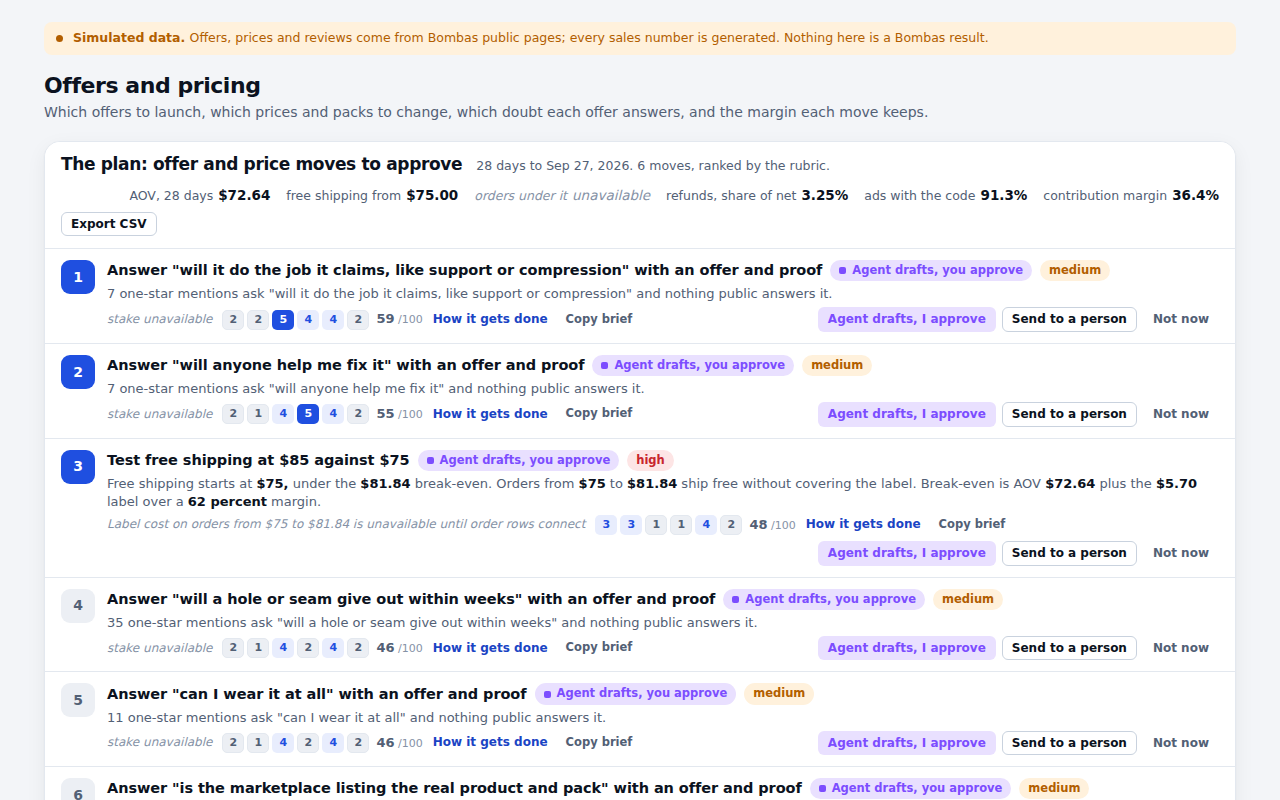
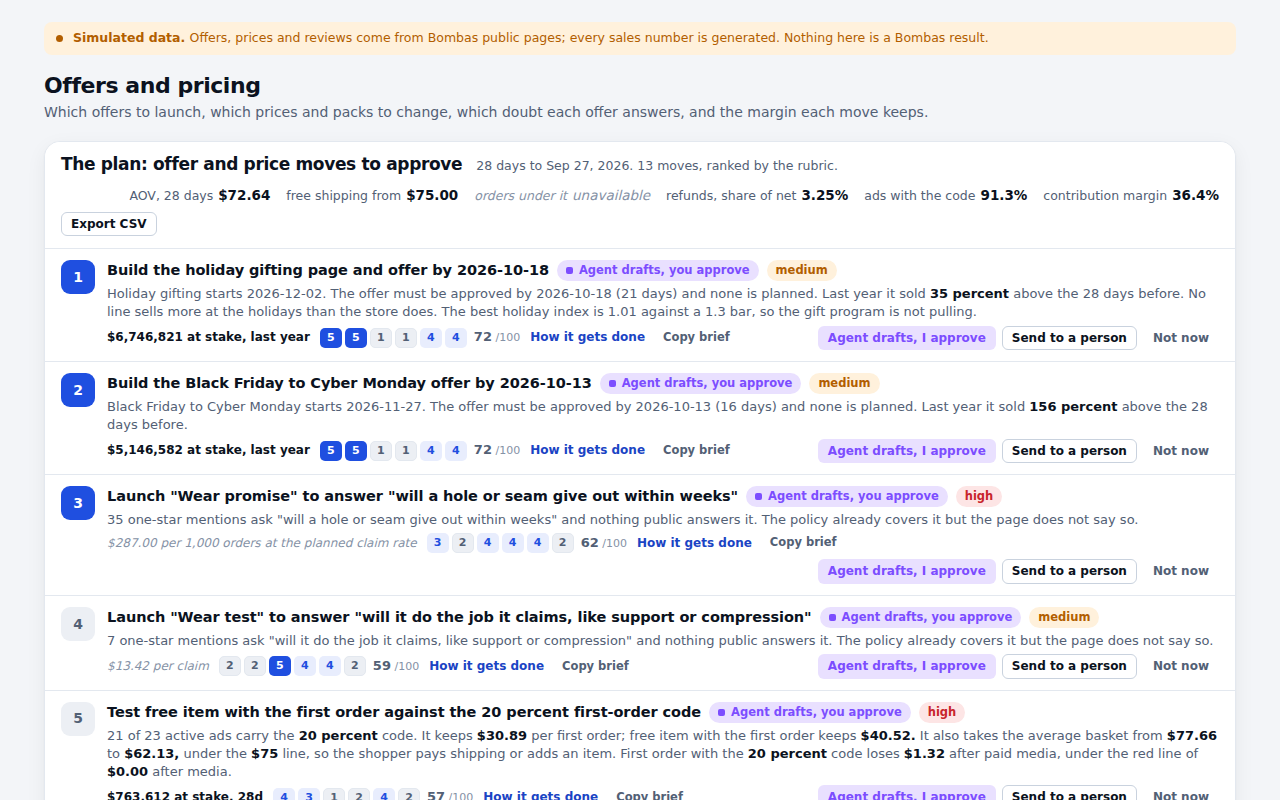
Offers and pricing 1.10: rank complete. Every rule has a builder with a real title, steps, drafted artefact, win and stop rules; merged moves carry every finding id; connect actions merge by source; tests for coverage, validation and determinism; round 1 screenshot and note
Claude-Session: https://claude.ai/code/session_01DDhw6WYtBQKeQKJrXFNfTo

Changed region(s): [[0.0312, 0.3125, 0.9688, 1.0], [0.5, 0.1875, 0.6562, 0.2188]]

diff --git a/app/screens/04-offers-pricing/actions.py b/app/screens/04-offers-pricing/actions.py
@@ -406,6 +406,101 @@ def guarantee_action(f, a, ctx):
     return a
 
 
+def stale_action(f, a, ctx):
+    ev = {e['metric']: e for e in f['evidence']}
+    be = ev.get('free_shipping_threshold_breakeven', {})
+    new = math.ceil(be['value'] / 5) * 5 if be.get('value') else None
+    a.update({
+        'title': f'Re-decide the free shipping line against a ${be.get("value", 0):,.2f} break-even',
+        'owner': 'agent_drafts',
+        'artefact': {'kind': 'report', 'label': 'Free shipping line review', 'draft': '\n'.join([
+            f'Break-even moved from ${be.get("baseline", 0):,.2f} to ${be.get("value", 0):,.2f} in a year; the line stayed at ${ctx.threshold:,.0f}.',
+            'Inputs that moved: ' + '; '.join(f'{k.replace("_", " ")} {v["baseline"]} to {v["value"]}' for k, v in ev.items() if v.get('baseline') is not None) + '.',
+            f'Options: keep the line, or test ${new} (break-even rounded up to $5).' if new else 'Options: keep the line.'])},
+        'steps': steps(('agent', 'Recompute break-even with the label and AOV in force today.'),
+                       ('agent', 'Draft the review with the options and what each must achieve.'),
+                       ('person', 'Decide: keep the line or approve a test.')),
+        'win_rule': 'A decision logged with the break-even it was made on.', 'stop_rule': None,
+        'check_on': ctx.check_on(90), 'time_to_ship_hours': 2})
+    return a
+
+
+def pull_action(f, a, ctx):
+    t = ctx.threshold
+    a.update({
+        'title': f'Show shoppers how far they are from free shipping at ${t:,.0f}',
+        'owner': 'agent_drafts',
+        'artefact': {'kind': 'page_section', 'label': 'Free shipping progress bar for the cart and the header', 'draft': '\n'.join([
+            f'Page section: a progress bar in the cart and the header: "You are $X from free shipping" up to ${t:,.0f}.',
+            'Under it, one add-on that closes the gap: the single item priced nearest the gap.',
+            'Win: more orders in the $10 over the line than under it within 28 days.',
+            'Stop: conversion down more than 3 percent relative for 7 days.'])},
+        'steps': steps(('agent', 'Pick the add-on items that close the most common gaps.'),
+                       ('agent', 'Draft the bar copy and the add-on block.'),
+                       ('person', 'Approve. The site team ships the bar.'),
+                       ('agent', f'Read the orders just under and over the line weekly; call it on {ctx.check_on(28)}.')),
+        'win_rule': 'More orders in the $10 over the line than under it within 28 days.',
+        'stop_rule': 'Conversion down more than 3 percent relative for 7 days.', 'check_on': ctx.check_on(28), 'time_to_ship_hours': 6})
+    return a
+
+
+def claims_action(f, a, ctx):
+    a.update({
+        'title': 'Find what is driving guarantee claims over plan',
+        'owner': 'agent_drafts',
+        'artefact': {'kind': 'policy', 'label': 'Guarantee terms review', 'draft': '\n'.join([
+            f['sentence'],
+            'Review: claims by reason and by product line, the lines over plan, and the terms that invite abuse.',
+            'Options: fix the product behind the top reason, tighten the window, or require a photo for replacements.'])},
+        'steps': steps(('agent', 'Split claims by reason and by product line.'),
+                       ('agent', 'Draft the review and the options.'),
+                       ('person', 'Decide the change. CX updates the macros.')),
+        'win_rule': 'Claims back under plan within 56 days.', 'stop_rule': None, 'check_on': ctx.check_on(56), 'time_to_ship_hours': 4})
+    return a
+
+
+def merge_into(actions, child, parent):
+    """A child rule's finding rides on the parent rule's action when both fire (one move fixes both)."""
+    host = next((a for a in actions if a.get('rule_id') == parent and a.get('status') == 'open'), None)
+    if not host:
+        return actions
+    keep = []
+    for a in actions:
+        if a.get('rule_id') == child and a.get('status') == 'open':
+            host['finding_ids'] = host['finding_ids'] + a['finding_ids']
+            host['why'] = host['why'] + ' ' + a['why']
+            continue
+        keep.append(a)
+    return keep
+
+
+def merge_connect(actions):
+    """One connect action per missing connector, listing every rule that waits on it."""
+    keep, groups = [], {}
+    for a in actions:
+        if a.get('status') == 'unavailable':
+            con = ((a.get('artefact') or {}).get('label') or '').split(' connected')[0] or 'the source'
+            groups.setdefault(con, []).append(a)
+        else:
+            keep.append(a)
+    for con, members in groups.items():
+        if len(members) == 1:
+            keep.append(members[0])
+            continue
+        best = max(members, key=lambda m: m['rubric']['total'])
+        a = dict(best)
+        names = [m['entity']['label'] for m in members]
+        a.update({'id': f'{SCREEN}.connect.{con}', 'finding_ids': [fid for m in members for fid in m['finding_ids']],
+                  'title': f'Connect {con}, read-only, so {len(members)} rules can run',
+                  'why': 'Waiting on it: ' + '; '.join(names) + '.',
+                  'entity': {'type': 'connector', 'id': con, 'label': con},
+                  'steps': steps(('person', f'Connect {con} in Setup with a read-only key.'),
+                                 ('agent', 'Pull the last 28 days and 4 windows before.'),
+                                 ('agent', 'Run the ' + str(len(members)) + ' rules and post the findings here.'))})
+        keep.append(a)
+    return keep
+
+
 def returns_block(rd):
     """returns_by_reason for the window, or the labelled fixture when the metric is unavailable."""
     m = rd.m('returns_by_reason', audit.WINDOW)
@@ -563,7 +658,7 @@ def rescore(a, dims):
 
 BUILDERS = {'OFFER-R01': threshold_action, 'OFFER-R04': rung_action, 'OFFER-R08': first_order_action,
             'OFFER-R10': red_line_action, 'OFFER-R11': promo_action, 'OFFER-R12': gifting_action,
-            'OFFER-R14': guarantee_action}
+            'OFFER-R14': guarantee_action, 'OFFER-R05': stale_action, 'OFFER-R06': pull_action, 'OFFER-R15': claims_action}
 
 
 def build(f, rd, ctx, nr):
@@ -594,7 +689,8 @@ def rank(brand='bombas', window=None):
     ctx = Ctx(rd)
     nr = RANK.net_revenue_28d(brand, w)
     actions = [build(f, rd, ctx, nr) for f in findings if f.get('status') in ('open', 'unavailable', None)]
-    actions = merge_gifting(merge_red_line(merge_ladder(actions, ctx)), ctx)
+    actions = merge_connect(merge_gifting(merge_red_line(merge_ladder(actions, ctx)), ctx))
+    actions = merge_into(merge_into(actions, 'OFFER-R05', 'OFFER-R01'), 'OFFER-R06', 'OFFER-R01')
     actions = [a for a in actions if not RANK.validate_action(a)]
     actions.sort(key=RANK.sort_key)
     return {'screen': SCREEN, 'brand': brand, 'window': w, 'simulated': True, 'net_revenue_28d': nr,

diff --git a/tests/test_screen_offers_pricing.py b/tests/test_screen_offers_pricing.py
@@ -547,7 +547,7 @@ class GiftingTest(unittest.TestCase):
         self.assertEqual('04-offers-pricing.OFFER-R12.gifting' in fids, not led)
 
     def test_ledger_is_a_connect_action(self):
-        a = next((a for a in self.out['actions'] if a['rule_id'] == 'OFFER-R13'), None)
+        a = next((a for a in self.out['actions'] if '04-offers-pricing.OFFER-R13.gift_card_liability' in a['finding_ids']), None)
         if self.g['ledger']['unavailable']:
             self.assertEqual(a['owner'], 'person')
             self.assertEqual(a['artefact']['kind'], 'connector_setup')
@@ -585,6 +585,60 @@ class GuaranteeTest(unittest.TestCase):
                     self.assertIn(t['text'], a['artefact']['draft'])
         if self.rd.m('returns_by_reason', audit.WINDOW).get('unavailable'):
             self.assertEqual(fs['OFFER-R15']['status'], 'unavailable')
+
+
+class RankCompleteTest(unittest.TestCase):
+    """Round 1 feature 10: rank covers every rule with real titles, steps and artefacts; connect actions merge by source."""
+
+    @classmethod
+    def setUpClass(cls):
+        cls.rank_mod = load('ecomos_rank', ROOT / 'app' / 'rank.py')
+        cls.out = api.actions.rank('bombas')
+        cls.acts = cls.out['actions']
+
+    def test_every_rule_has_a_builder_or_is_connect_only(self):
+        connect_only = {'OFFER-R03', 'OFFER-R13'}
+        for r in audit.RULES:
+            self.assertTrue(r['rule_id'] in api.actions.BUILDERS or r['rule_id'] in connect_only
+                            or r['rule_id'] in ('OFFER-R07', 'OFFER-R09'), r['rule_id'])
+            self.assertIn(r['rule_id'], audit.__doc__)
+
+    def test_open_actions_are_real_work(self):
+        default_titles = set()
+        for f in self.out['findings']:
+            if f['status'] == 'open':
+                default_titles.add(self.rank_mod.action_from_finding(f)['title'])
+        for a in self.acts:
+            self.assertEqual(self.rank_mod.validate_action(a), [])
+            if a['status'] != 'open':
+                continue
+            self.assertNotIn(a['title'], default_titles)
+            self.assertTrue(a['artefact'].get('draft'), a['id'])
+            self.assertTrue(a.get('win_rule') or a.get('stop_rule'), a['id'])
+            self.assertTrue(a.get('check_on'), a['id'])
+            self.assertTrue(any(s['who'] == 'person' for s in a['steps']), a['id'])   # a person approves before anything ships
+            self.assertEqual(a['owner'], 'agent_drafts')
+            self.assertLess(len(a['title'].split()), 20)
+
+    def test_connect_actions_merge_by_source(self):
+        con = [a for a in self.acts if a['status'] == 'unavailable']
+        labels = [a['artefact']['label'] for a in con]
+        self.assertEqual(len(labels), len(set(labels)))
+        unavailable = {f['id'] for f in self.out['findings'] if f['status'] == 'unavailable'}
+        self.assertEqual(unavailable, {fid for a in con for fid in a['finding_ids']})
+
+    def test_finding_ids_are_unique_across_actions(self):
+        ids = [fid for a in self.acts for fid in a['finding_ids']]
+        self.assertEqual(len(ids), len(set(ids)))
+        self.assertEqual(set(ids), {f['id'] for f in self.out['findings'] if f['status'] in ('open', 'unavailable')})
+
+    def test_same_inputs_same_order_and_older_window(self):
+        again = api.actions.rank('bombas')
+        self.assertEqual([a['id'] for a in again['actions']], [a['id'] for a in self.acts])
+        older = api.actions.rank('bombas', {'ends_on': '2026-06-30'})
+        self.assertEqual(older['window']['ends_on'], '2026-06-30')
+        for a in older['actions']:
+            self.assertEqual(self.rank_mod.validate_action(a), [])
 
 
 if __name__ == '__main__':

diff --git a/app/screens/04-offers-pricing/FEATURES.md b/app/screens/04-offers-pricing/FEATURES.md
@@ -37,6 +37,16 @@ Known gaps from round 0:
 | 1.7 | Promo calendar: 8 US retail windows by date rule (`playbook.PROMO_WINDOWS`, a brand in another market swaps the list), next dates, the approval date (start minus the window's lead), last year's net sales per day against the 28 days before and the discount depth, and whether a brain `plans` record covers it. Timeline plus a verdict table. New rule OFFER-R11: a window due in 30 days with no plan becomes a dated offer spec (approve, briefs, site loaded, report dates), a margin check at last year's depth and a depth cap; money is last year's sales above baseline | done |
 | 1.8 | Gifting and the holiday offer: a holiday index per line (its November and December share over the store's), the gift card and bulk gifting records, order-by dates for December 24 per shipping option from the brain (business days), the gift card ledger as unavailable. New rules OFFER-R12 (no line sells as a gift while a gift program runs; rides on the holiday window's action, whose artefact becomes the landing page spec: hero, gift boxes from packs of 6 or more, gift card, bulk gifting link, order-by bar, proof) and OFFER-R13 (gift card liability, a connect action) | done |
 | 1.9 | Guarantee as an offer: its terms from the brain with the page type each was found on (url path rules in `playbook.PAGE_TYPES`), the ladder doubts it answers (rungs whose proof cites it) with one-star counts, and the planned refund and replacement rates from the brain's return model against actual claims (unavailable until returns connect). New rules OFFER-R14 (every term traces to a non-selling page while rungs cite it: a guarantee block for the product page and cart drafted from the brain's own terms, with its claim cost at plan and a stop at 1.5 times plan; first step checks the live page read-only) and OFFER-R15 (claims against plan, a connect action) | done |
+| 1.10 | `rank` complete: every rule has a builder with a real title, owner, steps with who, a drafted artefact (offer, price_change, test_brief, page_section, landing_page, policy, report), win and stop rules and a check date; merged moves (pack verdicts, the code and its red line, the holiday window and gifting, the stale and pull rules into the threshold test) carry every finding id; connect actions merge by source ("Connect shopify, read-only, so 3 rules can run"). Tests: every finding in exactly one action, every action passes `validate_action`, no default titles on open work, a person approves every open move, same order on the same inputs, an older window validates | done |
+
+### Round 1 note for Kevin (28 Sep 2026)
+
+1. What a founder can do now: open the screen and approve 13 offer and price moves, each with its spec or test brief drafted, who does each step, and the win and stop rules.
+2. Top of the plan: build the holiday gifting page and offer by 18 Oct and the Black Friday offer by 13 Oct (last year's lift and depth, dated prep plan, depth cap, order-by dates).
+3. New judgement encoded: the 20 percent code takes the average first basket under the $75 line and loses $1.32 after media; a free item keeps $40.52 and can lose 24 percent of first-order conversion and still win.
+4. Pack ladder: a deeper pack price would give millions to current pack buyers, so 5 lines get the pack preselected instead; 1 line gets a price test; 4 single-only basics lines get a pack.
+5. Honest gaps: order rows and returns are not in this container, so bins and returns show labelled fixtures and 3 rules sit behind one "connect shopify" action.
+6. Next (round 2): discount ladder discipline and creep, price elasticity from experiments, marketplace price parity through the data layer, loyalty and referral offers, the web pass on the best offer tools.
 
 ## Room jobs
 
@@ -154,7 +164,7 @@ Known gaps from round 0:
 | Round | Features picked | Date | Notes |
 |---|---|---|---|
 | 0 | skeleton, 0.1 to 0.9 | 2026-09-28 | S3.9; screenshot round0.png |
-| 1 | 1.1 plan first, 1.2 objection to offer map, 1.3 free shipping line, 1.4 pack ladder, 1.5 first-order offer, 1.6 margin waterfall, 1.7 promo calendar, 1.8 gifting and holiday, 1.9 guarantee as an offer | 2026-09-28 | manager session; screenshot round1.png (updated as the round lands) |
+| 1 | 1.1 plan first, 1.2 objection to offer map, 1.3 free shipping line, 1.4 pack ladder, 1.5 first-order offer, 1.6 margin waterfall, 1.7 promo calendar, 1.8 gifting and holiday, 1.9 guarantee as an offer, 1.10 rank complete | 2026-09-28 | manager session; screenshot round1.png (updated as the round lands) |
 
 
 ## Round 1 candidates (ranked 28 Sep 2026 by the lead session)
